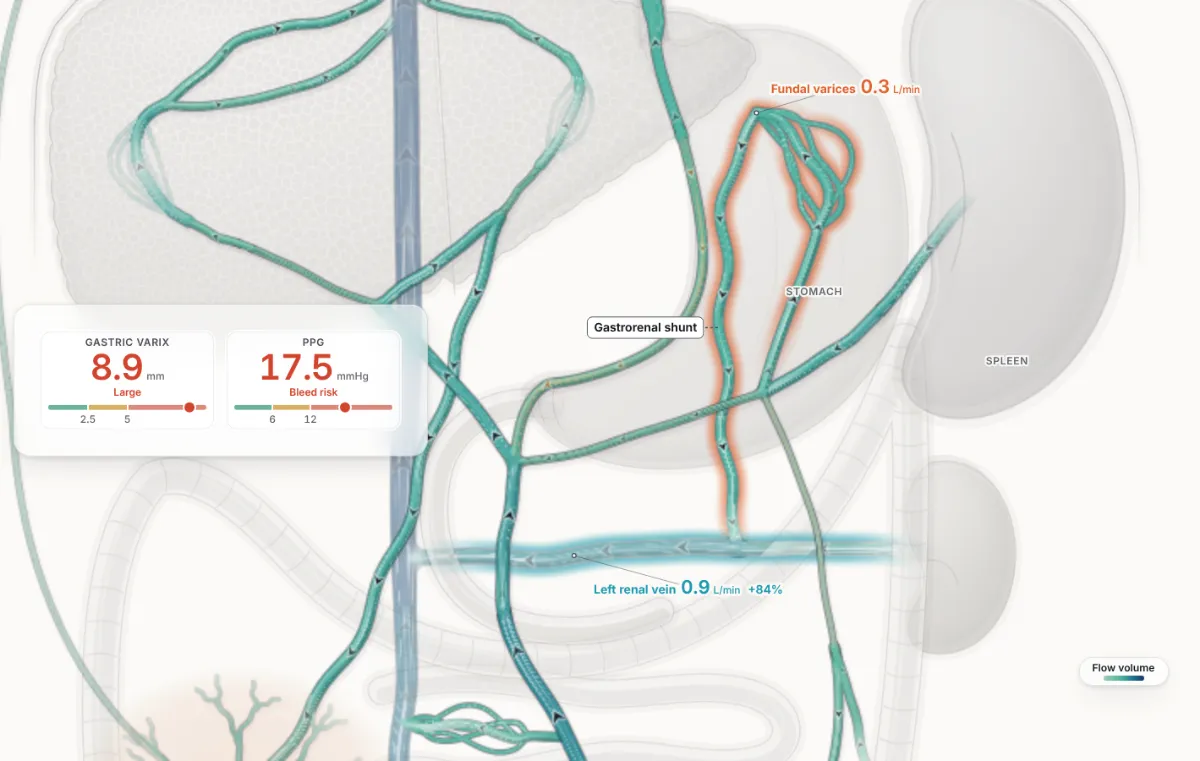
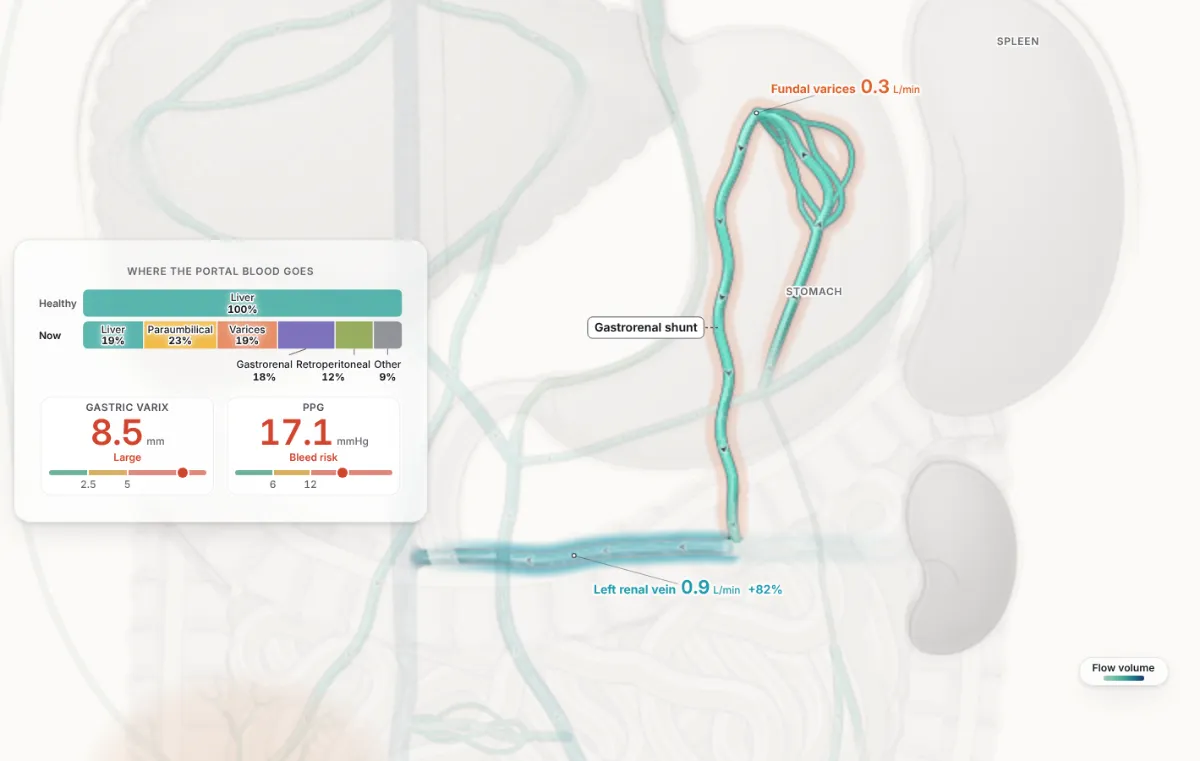
Shunts: spotlight on the gastrorenal shunt (slide 3) and the TIPS path (slide 5)
Shunts 3 spots @gastrorenal (short gastric feeders, the shunt, the left renal
vein); Shunts 5 spots the stent with the portal vein and right hepatic vein it
joins. The rest of the network eases back as on Varices 2.

Claude-Session: https://claude.ai/code/session_01NmvvuDFbFqJfsFY4n2oiRW

diff --git a/src/ui/decks/shunts.js b/src/ui/decks/shunts.js
@@ -29,7 +29,7 @@ export const SHUNTS = {
       ask: ['Why do collaterals fail to bring the portal pressure down?', 'Portal inflow rises as they open, and they are not wide enough to carry it all at a low gradient.'],
     },
     {
-      id: 'grs', lens: 'flow', terms: ['gv', 'lrv'], preset: 'gastric-varix', cam: 'fundus', mark: { edges: ['C5'], label: 'Gastrorenal shunt', kind: 'note' }, tool: { kind: 'flows' }, data: 'tiles', tiles: ['gv', 'ppg'],
+      id: 'grs', lens: 'flow', terms: ['gv', 'lrv'], preset: 'gastric-varix', cam: 'fundus', spot: ['@gastrorenal'], mark: { edges: ['C5'], label: 'Gastrorenal shunt', kind: 'note' }, tool: { kind: 'flows' }, data: 'tiles', tiles: ['gv', 'ppg'],
       kicker: 'Spontaneous', site: 'sin', title: 'Gastrorenal shunt',
       vignette: 'A 63-year-old man with hepatitis C cirrhosis has a large fundal varix on surveillance EGD. He has never bled, and his albumin is 3.0 g/dL.',
       line: 'Fundal varices drain through the gastrorenal shunt to the left renal vein. Colored by flow, the shunt carries much of the splenic blood.',
@@ -46,7 +46,7 @@ export const SHUNTS = {
       ask: ['A patient with cirrhosis has recurrent encephalopathy despite lactulose and rifaximin. What should you look for?', 'A large spontaneous portosystemic shunt, such as a splenorenal shunt, on CT.'],
     },
     {
-      id: 'tips', terms: ['pv', 'hv'], preset: 'cirr-decomp', params: { tips: { on: true, d: 8 } }, whatIf: { label: 'Stent width', param: 'tips.d', min: 6, max: 12, step: 1, unit: 'mm' }, cam: 'liver', sites: ['split'], mark: { edges: ['TIPS'], label: 'Covered stent', kind: 'treat' }, calipers: ['TIPS'],
+      id: 'tips', terms: ['pv', 'hv'], preset: 'cirr-decomp', params: { tips: { on: true, d: 8 } }, whatIf: { label: 'Stent width', param: 'tips.d', min: 6, max: 12, step: 1, unit: 'mm' }, cam: 'liver', sites: ['split'], mark: { edges: ['TIPS'], label: 'Covered stent', kind: 'treat' }, calipers: ['TIPS'], spot: ['TIPS', 'PV_TRUNK', 'PVH_R', 'RHV_IVC'],
       tool: { kind: 'doppler', vessel: 'TIPS' }, data: 'tiles', tiles: ['ppg', 'shunt', 'liver'], delta: 'own',
       kicker: 'Placed shunts', site: 'sin', title: 'TIPS',
       line: 'A covered stent, 8 to 10 mm, from a hepatic vein to the portal vein. The PPG falls to {ppg}, below 12 mmHg.',

diff --git a/src/ui/decks.js b/src/ui/decks.js
@@ -91,7 +91,7 @@ import { TREATMENT } from './decks/treatment.js?v=dad79c0a5d';
 import { STIFFNESS } from './decks/stiffness.js?v=979e2c4874';
 import { ONE_YEAR } from './decks/one-year.js?v=fc91848c2e';
 import { LOBULE } from './decks/lobule.js?v=418d63e547';
-import { SHUNTS } from './decks/shunts.js?v=fdf4deb758';
+import { SHUNTS } from './decks/shunts.js?v=48dcc14a09';
 import { TIPS_DOPPLER } from './decks/tips-doppler.js?v=a6771b69c6';
 import { TAP } from './decks/tap.js?v=3a7bc5955a';
 import { CIRCUIT } from './decks/circuit.js?v=424f33dee3';

diff --git a/tests/deck-adopted.js b/tests/deck-adopted.js
@@ -16,9 +16,9 @@ export const ADOPTED = {
   'pvt-cirrhosis/anticoag': ['kind:lumen'],
   'pvt-cirrhosis/course': ['tool.bands'],
   'shunts/own': ['kind:flows'],
-  'shunts/grs': ['kind:flows'],
+  'shunts/grs': ['kind:flows', 'spot'],
   'shunts/srs': ['kind:flows'],
-  'shunts/tips': ['calipers'],
+  'shunts/tips': ['calipers', 'spot'],
   'shunts/wide': ['kind:curve'],
   'shunts/brto': ['kind:flows'],
   'doppler/probe': ['tool.mode'],
